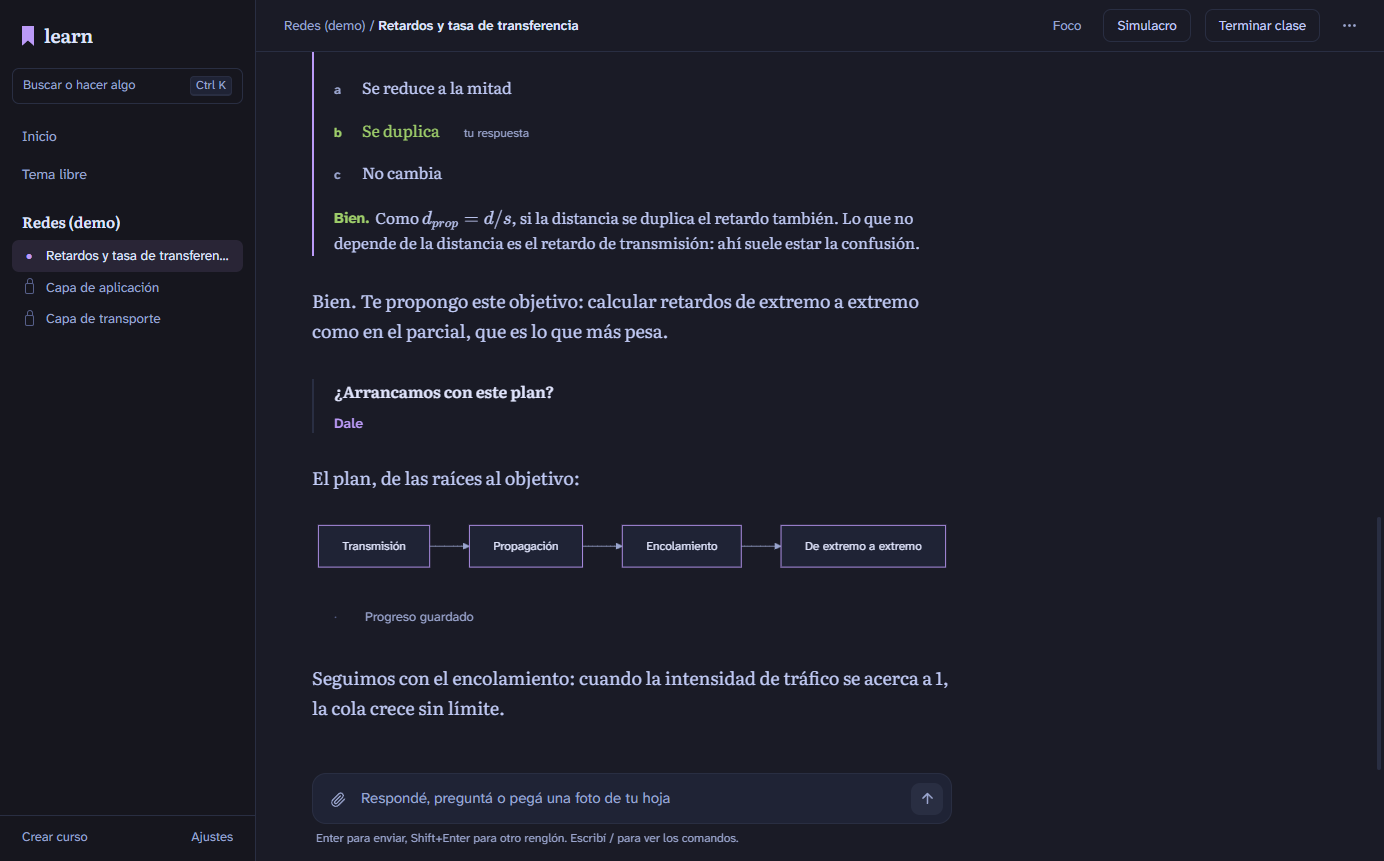
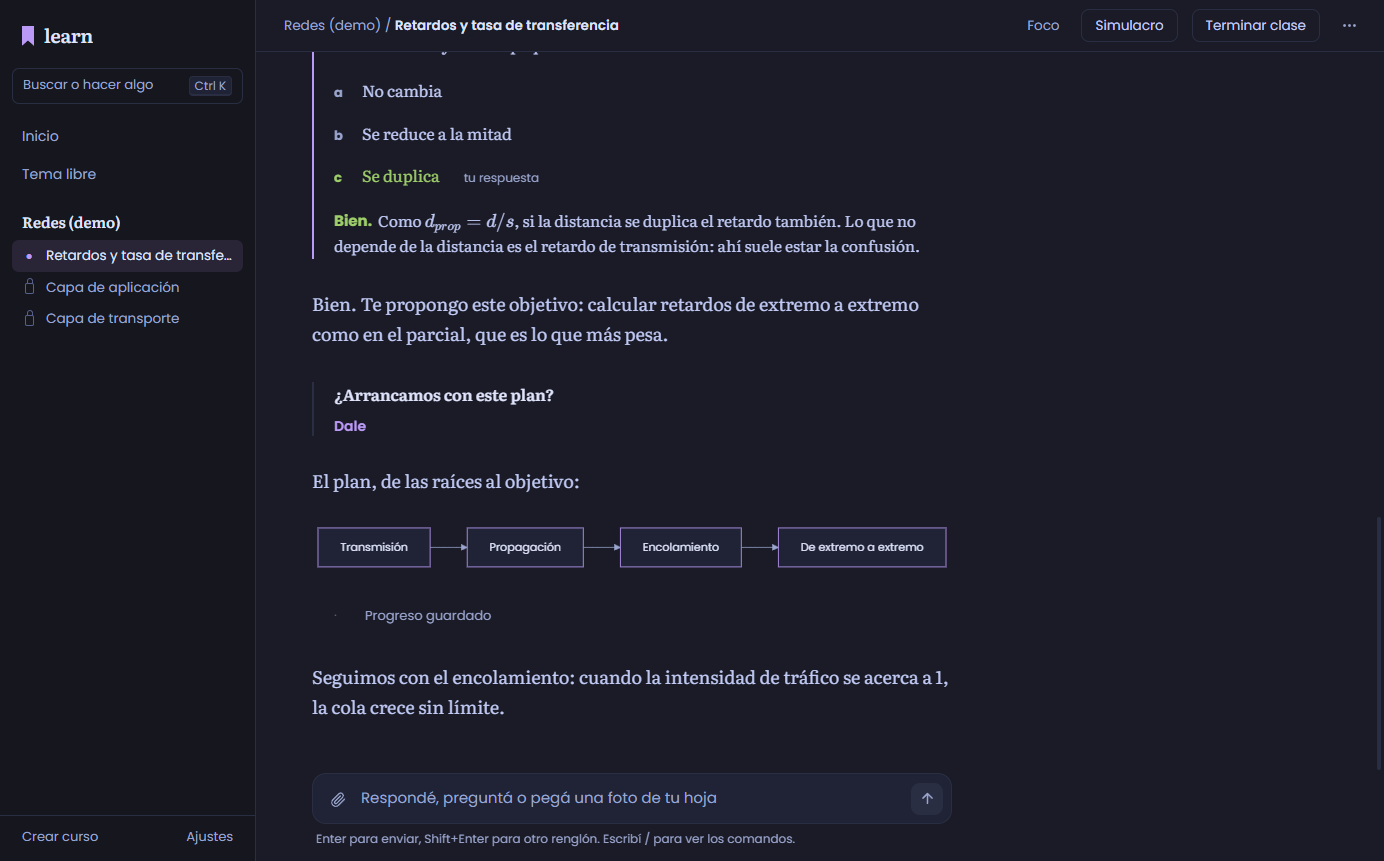
DA44: Poppins en la interfaz de la app; Literata sigue para la lectura
@fontsource/poppins (400, 500, 600, 700 e itálica 400) reemplaza a Atkinson
Hyperlegible Next en menús, botones y barra lateral, empaquetada como antes. Las
capturas de informes/interfaz/ se rehicieron con la fuente nueva.

Claude-Session: https://claude.ai/code/session_01PdSL68f7cfgsBBYkRgEPuA

diff --git a/app/src/renderer/src/estilo/base.css b/app/src/renderer/src/estilo/base.css
@@ -7,7 +7,7 @@
   --deco: #565f89; --accent: #bb9af7; --wash: rgba(187, 154, 247, .11); --wash-fuerte: rgba(187, 154, 247, .2); --cite: #7dcfff; --ok: #9ece6a;
   --bad: #f7768e; --warn: #e0af68; --focus: #7aa2f7; --onaccent: #1a1b26; --velo: rgba(10, 11, 18, .62); --codigo: #16161e;
   --leer: "Literata Variable", "Literata", Georgia, serif;
-  --ui: "Atkinson Hyperlegible Next Variable", "Atkinson Hyperlegible Next", system-ui, sans-serif;
+  --ui: "Poppins", system-ui, sans-serif;
   --mono: ui-monospace, "Cascadia Code", "JetBrains Mono", Consolas, monospace;
 }
 @media (prefers-color-scheme: light) {

diff --git a/app/src/renderer/src/main.tsx b/app/src/renderer/src/main.tsx
@@ -1,8 +1,11 @@
 import { createRoot } from "react-dom/client";
 import "@fontsource-variable/literata/opsz.css";
 import "@fontsource-variable/literata/opsz-italic.css";
-import "@fontsource-variable/atkinson-hyperlegible-next/wght.css";
-import "@fontsource-variable/atkinson-hyperlegible-next/wght-italic.css";
+import "@fontsource/poppins/400.css";
+import "@fontsource/poppins/400-italic.css";
+import "@fontsource/poppins/500.css";
+import "@fontsource/poppins/600.css";
+import "@fontsource/poppins/700.css";
 import "katex/dist/katex.min.css";
 import "./estilo/base.css";
 import "./estilo/marco.css";

diff --git a/app/README.md b/app/README.md
@@ -9,7 +9,7 @@ Electron, React y TypeScript. Corre la misma pi 1.4.0 y el mismo `.pi/` del vaul
 | `host/` | el proceso que corre pi, con el Node del sistema. `inicio.mjs` arma la sesión como `pi-learn` y atiende las acciones de la ventana. `filtro.mjs` decide qué sale hacia la ventana (nunca args ni resultados de las tools del curso, la correcta antes de responder, mensajes ocultos ni razonamiento). `interfaz.mjs` es la uiContext de pi (diálogos, quiz y preguntas). `paginas.mjs` aplica las reglas de `ver_pagina` al panel de página. `curso.mjs` y `sesiones.mjs` leen el curso y las sesiones. `superficie.mjs` abre los paneles de subagentes |
 | `src/main/` | el proceso principal de Electron: ventana, ajustes de la app, diálogos de archivos, «Preparar la computadora» (doctor e instalación) |
 | `src/preload/` | la API `window.learn` de la ventana, sin acceso a Node |
-| `src/renderer/` | la interfaz: tienda de estado, pantallas, estilos (tokens Noche de Tokio y Día, Literata y Atkinson Hyperlegible Next empaquetadas) |
+| `src/renderer/` | la interfaz: tienda de estado, pantallas, estilos (tokens Noche de Tokio y Día, Literata y Poppins empaquetadas) |
 | `src/lib/` | lógica pura con tests: temporizador de foco y textos (citas, plan, fechas) |
 | `subagentes/` | la superficie de paneles para pi-interactive-subagents y el script que la aplica al paquete instalado |
 | `e2e/` | proveedor falso de pi-ai con guion, curso de demostración y pruebas de punta a punta con Playwright |
